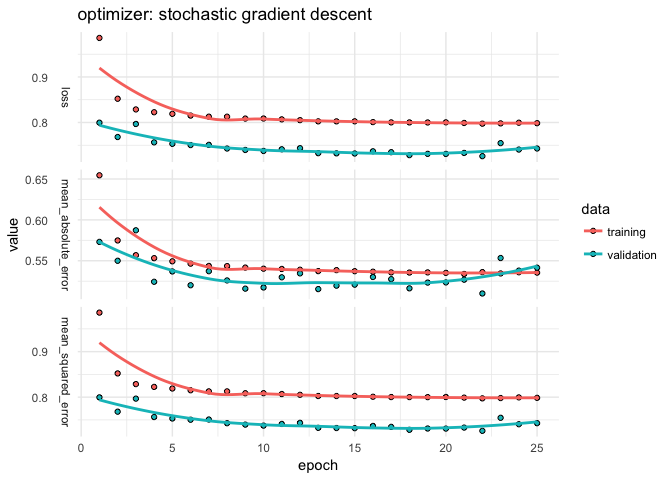
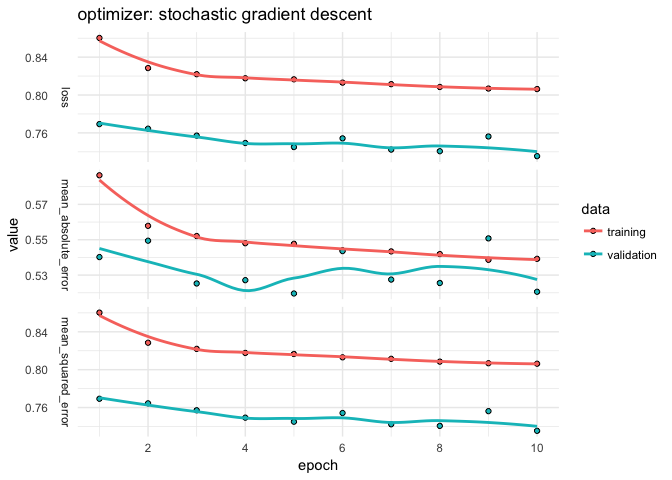
added P layer ex

diff --git a/examples/prelim_tests.md b/examples/prelim_tests.md
@@ -173,7 +173,7 @@ keras_model_seq %>% compile(
 )
 
 history_mse <- keras_model_seq %>% fit(x_train, z_train,
-                                   epochs = 25, 
+                                   epochs = 10, 
                                    batch_size = 32,
                                    validation_split = 0.2)
 
@@ -203,7 +203,7 @@ keras_model_seq %>% compile(
 )
 
 history_mse <- keras_model_seq %>% fit(x_train, z_train,
-                                   epochs = 25,
+                                   epochs = 10,
                                    batch_size = 32,
                                    validation_split = 0.2)
 
@@ -230,7 +230,7 @@ keras_model_seq %>% compile(
 )
 
 history_mae <- keras_model_seq %>% fit(x_train, z_train,
-                                   epochs = 25,
+                                   epochs = 10,
                                    batch_size = 32,
                                    validation_split = 0.2)
 
@@ -245,7 +245,54 @@ score <- evaluate(keras_model_seq, x_test, z_test)
 loss <- cbind(loss, c(score$mean_absolute_error*sd(pe$wageinc[trnidxs]), score$mean_squared_error*var(pe$wageinc[trnidxs])))
 colnames(loss)[7] <- "keras_sgd_abs_loss"
 
+history_three_layer <- keras_model_seq %>% fit(x_train, z_train,
+                                   epochs = 10,
+                                   batch_size = 32,
+                                   validation_split = 0.2)
 
+plot(history_three_layer) + theme_minimal() + ggtitle("optimizer: stochastic gradient descent (three dense layers, 50% dropout)")
+```
+
+![](prelim_tests_files/figure-markdown_github-ascii_identifiers/unnamed-chunk-3-3.png)
+
+``` r
+score <- evaluate(keras_model_seq, x_test, z_test)
+
+loss <- cbind(loss, c(score$mean_absolute_error*sd(pe$wageinc[trnidxs]), score$mean_squared_error*var(pe$wageinc[trnidxs])))
+colnames(loss)[8] <- "keras_sgd_mse_three_layers"
+
+
+
+keras_model_seq <- keras_model_sequential()
+keras_model_seq %>% layer_dense(units = c(P), input_shape = c(P)) %>% layer_dropout(P/2) %>%
+  layer_dense(units = c(P)) %>% layer_dropout(P/2) %>%
+  layer_dense(units = c(P)) %>% layer_dropout(P/2) %>%
+  layer_dense(units = c(P)) %>% layer_dropout(P/2) %>%
+  layer_dense(units = c(P)) %>% layer_dropout(P/2) %>%
+  layer_dense(units = c(P)) %>% 
+  layer_activation("linear") %>% layer_dense(1)
+
+keras_model_seq %>% compile(
+  loss = loss_mean_squared_error,
+  optimizer = optimizer_sgd(),
+  metrics = c("mean_absolute_error", "mean_squared_error")
+)
+
+history_six_layer <- keras_model_seq %>% fit(x_train, z_train,
+                                   epochs = 10,
+                                   batch_size = 32,
+                                   validation_split = 0.2)
+
+plot(history_six_layer) + theme_minimal() + ggtitle("optimizer: stochastic gradient descent (six dense layers, 50% dropout)")
+```
+
+![](prelim_tests_files/figure-markdown_github-ascii_identifiers/unnamed-chunk-3-4.png)
+
+``` r
+score <- evaluate(keras_model_seq, x_test, z_test)
+
+loss <- cbind(loss, c(score$mean_absolute_error*sd(pe$wageinc[trnidxs]), score$mean_squared_error*var(pe$wageinc[trnidxs])))
+colnames(loss)[9] <- "keras_sgd_mse_six_layers"
 
 keras_model_seq <- keras_model_sequential()
 keras_model_seq %>% layer_dense(units = c(P), input_shape = c(P)) %>% layer_dropout(P/2) %>%
@@ -259,22 +306,6 @@ keras_model_seq %>% compile(
   metrics = c("mean_absolute_error", "mean_squared_error")
 )
 
-history_three_layer <- keras_model_seq %>% fit(x_train, z_train,
-                                   epochs = 25,
-                                   batch_size = 32,
-                                   validation_split = 0.2)
-
-plot(history_three_layer) + theme_minimal() + ggtitle("optimizer: stochastic gradient descent (three dense layers)")
-```
-
-![](prelim_tests_files/figure-markdown_github-ascii_identifiers/unnamed-chunk-3-3.png)
-
-``` r
-score <- evaluate(keras_model_seq, x_test, z_test)
-
-loss <- cbind(loss, c(score$mean_absolute_error*sd(pe$wageinc[trnidxs]), score$mean_squared_error*var(pe$wageinc[trnidxs])))
-colnames(loss)[8] <- "keras_sgd_mse_three_layers"
-
 
 round(t(loss), 0)
 ```
@@ -284,10 +315,11 @@ round(t(loss), 0)
     lm                                  25786         1852735427
     plm2                                25239         1802438648
     pl3                                 24882         1788490321
-    keras_adam                          26557         1914270085
-    keras_sgd                           26890         1878916777
-    keras_sgd_abs_loss                  25820         1970388585
-    keras_sgd_mse_three_layers          26642         1871465071
+    keras_adam                          27390         1928240796
+    keras_sgd                           25918         1875036524
+    keras_sgd_abs_loss                  25633         1921086314
+    keras_sgd_mse_three_layers          25826         1868812503
+    keras_sgd_mse_six_layers            25837         1862515347
 
 ``` r
 # how do the predictions rank by the two evals?
@@ -295,4 +327,4 @@ round(t(loss), 0)
 cor(loss[1,], loss[2,], method = "spearman")
 ```
 
-    [1] 0.7857143
+    [1] 0.8166667
